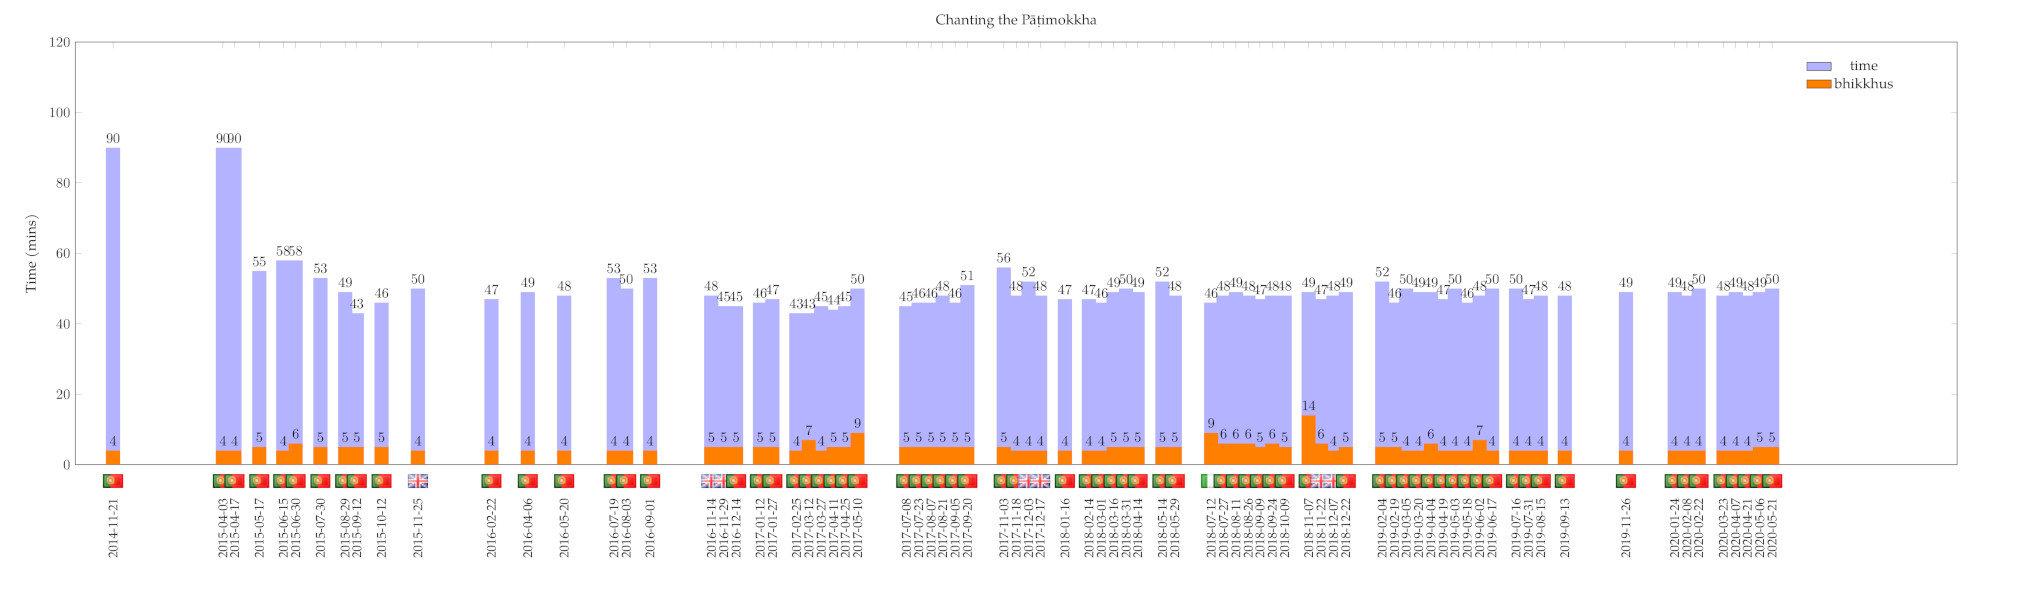
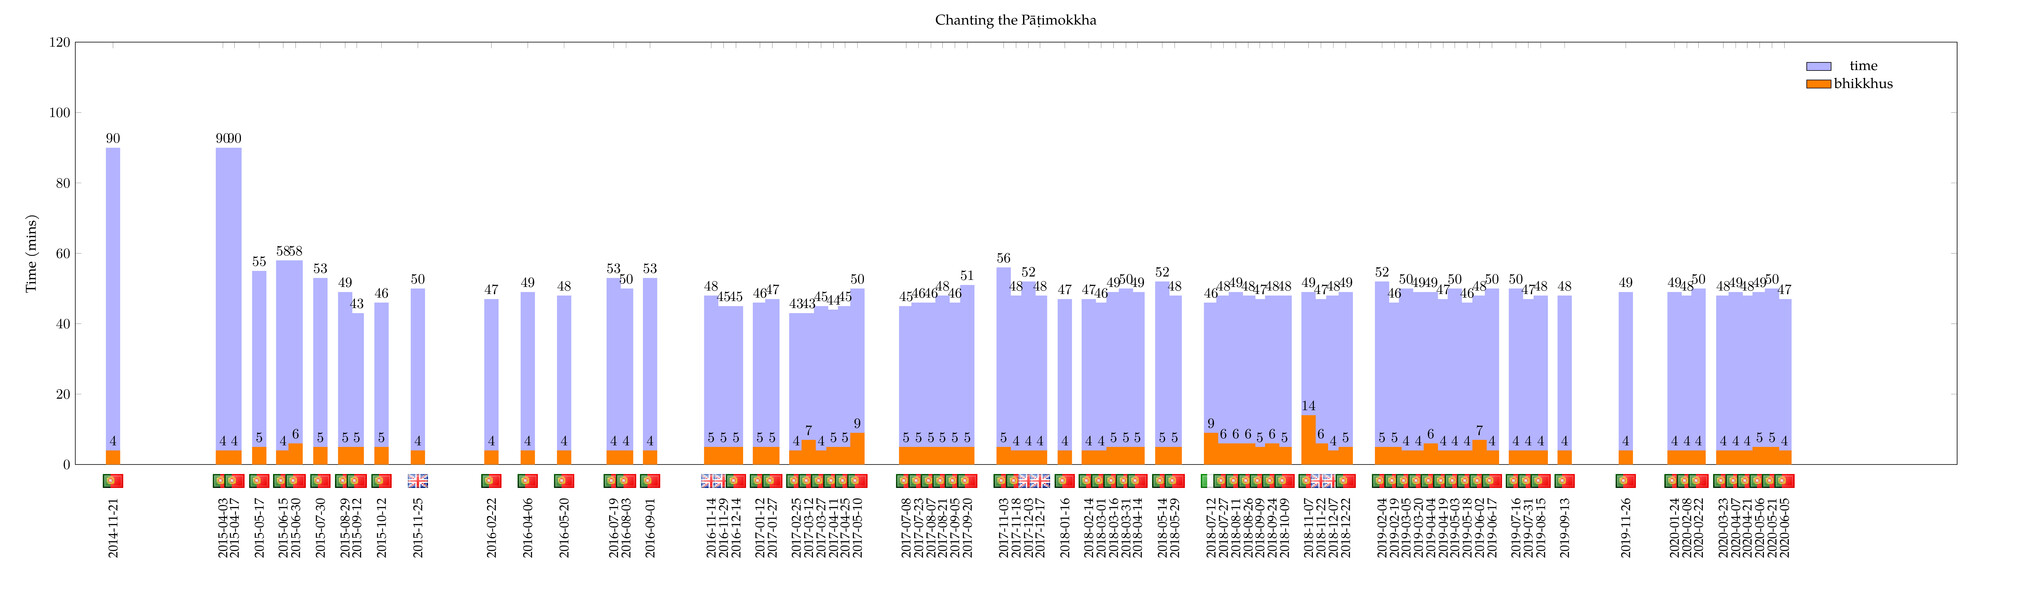
upd

diff --git a/src/patimokkha-chanting-chart.tex b/src/patimokkha-chanting-chart.tex
@@ -167,6 +167,7 @@
   \node [anchor=south, yshift=-20pt] at (axis cs:2020-04-21,0) {\includegraphics[width=5mm]{pt}};
   \node [anchor=south, yshift=-20pt] at (axis cs:2020-05-06,0) {\includegraphics[width=5mm]{pt}};
   \node [anchor=south, yshift=-20pt] at (axis cs:2020-05-21,0) {\includegraphics[width=5mm]{pt}};
+  \node [anchor=south, yshift=-20pt] at (axis cs:2020-06-05,0) {\includegraphics[width=5mm]{pt}};
 
 \end{axis}
 \end{tikzpicture}
